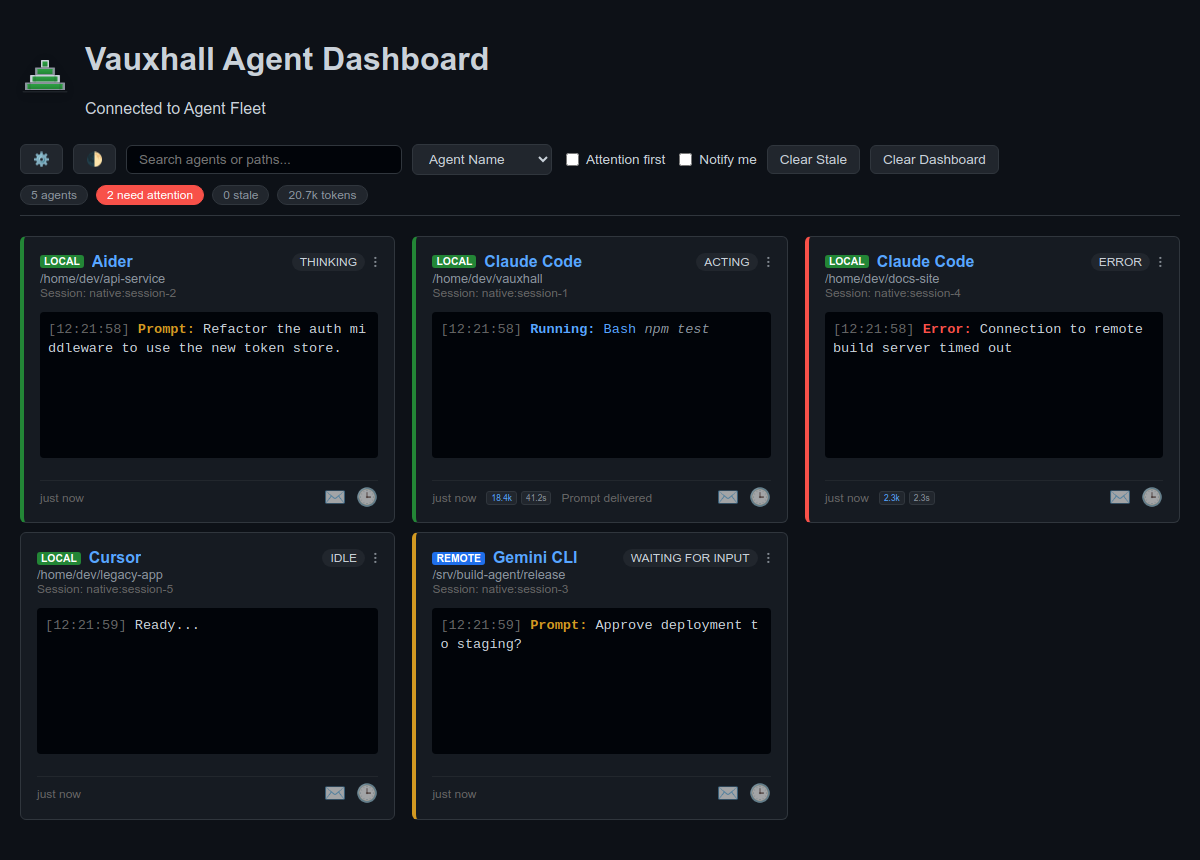
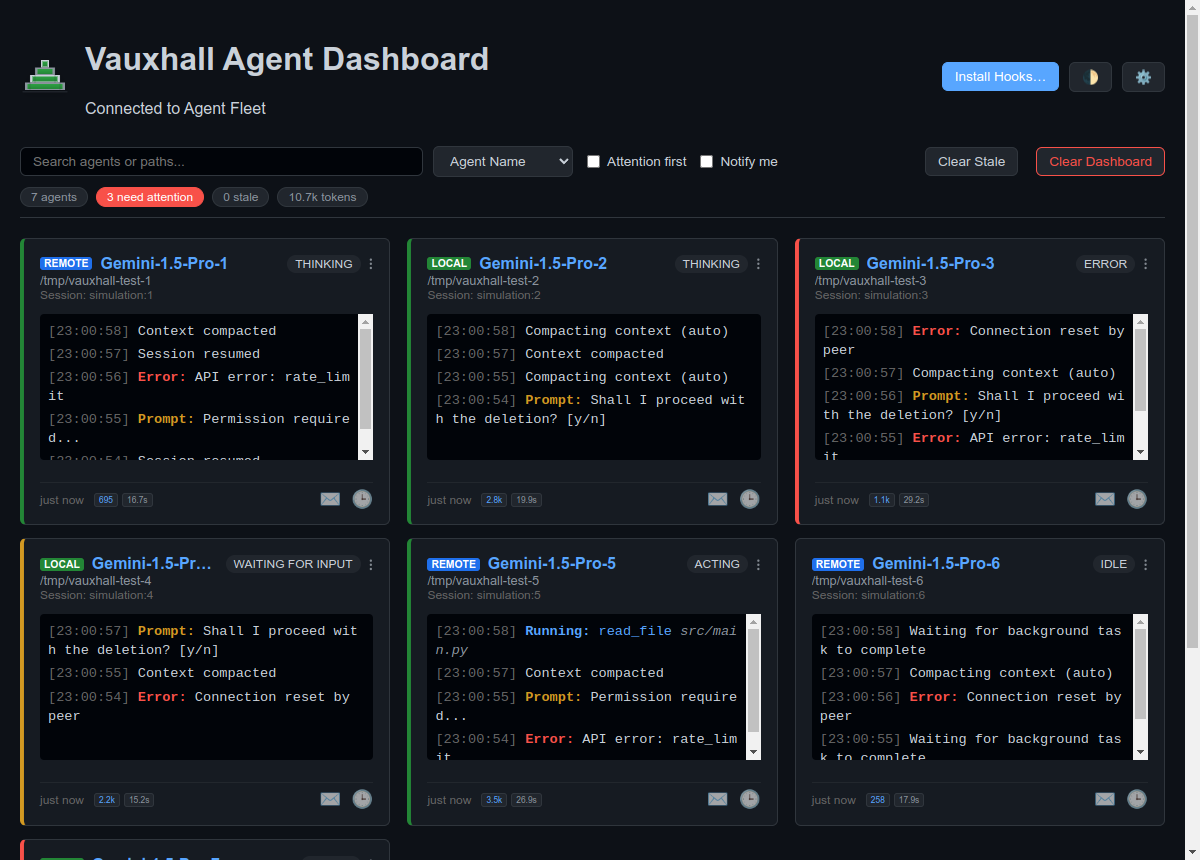
Group the dashboard header's controls by what they act on
The toolbar was one row of ten controls mixing app actions, view controls,
and the destructive Clear Dashboard. Following the GNOME header bar and
Fluent command bar guidance (few controls, grouped, app-level items in a
consistent trailing spot), app actions now trail the title with Install
Hooks… as the primary button, and a view bar holds search, sort, and the
toggles, with the clear actions at its end and Clear Dashboard outlined in
red. Ids, labels, and handlers are unchanged. The screenshot is refreshed
from a run with only simulated agents on a separate broker.

Claude-Session: https://claude.ai/code/session_01KiJKA5vYwWxU6QhW9V3zPQ

diff --git a/vauxhall/dashboard/ui/index.html b/vauxhall/dashboard/ui/index.html
@@ -21,28 +21,31 @@
                     <p id="js-status" role="status" aria-live="polite">Connecting...</p>
                 </div>
             </div>
-            <div class="toolbar">
-                <button id="settings-btn" class="secondary-btn" title="Settings" aria-label="Settings" aria-haspopup="dialog">⚙</button>
-                <button id="install-hooks-btn" class="secondary-btn" title="Install Vauxhall hooks into an agent's workspace" aria-haspopup="dialog">Install Hooks…</button>
+            <div class="toolbar app-actions">
+                <button id="install-hooks-btn" class="secondary-btn primary-btn" title="Install Vauxhall hooks into an agent's workspace" aria-haspopup="dialog">Install Hooks…</button>
                 <button id="theme-toggle" class="secondary-btn" title="Toggle Light/Dark Theme" aria-label="Toggle light and dark theme">🌓</button>
-                <input type="text" id="search-input" placeholder="Search agents or paths..." class="search-bar" title="Filter agents by name or workspace path" aria-label="Filter agents by name or workspace path">
-                <select id="sort-select" class="secondary-btn" title="Sort agent cards" aria-label="Sort agent cards">
-                    <option value="name" selected>Agent Name</option>
-                    <option value="recent">Recently Active</option>
-                    <option value="status">Status</option>
-                    <option value="tokens">Latest Tokens</option>
-                </select>
-                <label class="toolbar-checkbox" title="Rank cards in Error or Waiting state first, regardless of the chosen sort">
-                    <input type="checkbox" id="attention-first-toggle">
-                    Attention first
-                </label>
-                <label class="toolbar-checkbox" title="Show a desktop notification when a card starts needing attention">
-                    <input type="checkbox" id="notify-toggle">
-                    Notify me
-                </label>
-                <button id="clear-stale-btn" class="secondary-btn" title="Remove inactive (stale) agents from the dashboard">Clear Stale</button>
-                <button id="clear-btn" class="secondary-btn" title="Remove all agents from the dashboard">Clear Dashboard</button>
+                <button id="settings-btn" class="secondary-btn" title="Settings" aria-label="Settings" aria-haspopup="dialog">⚙</button>
             </div>
+        </div>
+        <div class="toolbar view-bar">
+            <input type="text" id="search-input" placeholder="Search agents or paths..." class="search-bar" title="Filter agents by name or workspace path" aria-label="Filter agents by name or workspace path">
+            <select id="sort-select" class="secondary-btn" title="Sort agent cards" aria-label="Sort agent cards">
+                <option value="name" selected>Agent Name</option>
+                <option value="recent">Recently Active</option>
+                <option value="status">Status</option>
+                <option value="tokens">Latest Tokens</option>
+            </select>
+            <label class="toolbar-checkbox" title="Rank cards in Error or Waiting state first, regardless of the chosen sort">
+                <input type="checkbox" id="attention-first-toggle">
+                Attention first
+            </label>
+            <label class="toolbar-checkbox" title="Show a desktop notification when a card starts needing attention">
+                <input type="checkbox" id="notify-toggle">
+                Notify me
+            </label>
+            <span class="view-bar-spacer"></span>
+            <button id="clear-stale-btn" class="secondary-btn" title="Remove inactive (stale) agents from the dashboard">Clear Stale</button>
+            <button id="clear-btn" class="secondary-btn danger-btn" title="Remove all agents from the dashboard">Clear Dashboard</button>
         </div>
         <div id="fleet-summary" class="fleet-summary" role="status" aria-live="polite" aria-label="Fleet summary"></div>
     </header>

diff --git a/tests/dashboard/ui/accessibility.test.js b/tests/dashboard/ui/accessibility.test.js
@@ -219,6 +219,18 @@ test('the fleet summary is a polite live region', () => {
     assert.equal(summary.getAttribute('aria-live'), 'polite');
 });
 
+test('app actions trail the title, and view controls precede the clear actions', () => {
+    const document = loadIndexPage();
+    const ids = (selector) => [...document.querySelectorAll(`${selector} [id]`)].map(el => el.id);
+
+    assert.deepEqual(ids('.app-actions'), ['install-hooks-btn', 'theme-toggle', 'settings-btn']);
+    assert.deepEqual(ids('.view-bar'), [
+        'search-input', 'sort-select', 'attention-first-toggle', 'notify-toggle', 'clear-stale-btn', 'clear-btn',
+    ]);
+    assert.ok(document.getElementById('install-hooks-btn').classList.contains('primary-btn'));
+    assert.ok(document.getElementById('clear-btn').classList.contains('danger-btn'));
+});
+
 test('the attention-first and notify toggles are checkboxes named by a wrapping label', () => {
     const document = loadIndexPage();
 

diff --git a/vauxhall/dashboard/ui/style.css b/vauxhall/dashboard/ui/style.css
@@ -211,8 +211,40 @@ header {
 
 .toolbar {
     display: flex;
+    flex-wrap: wrap;
     gap: 10px;
     align-items: center;
+}
+
+/* App-level actions trail the title; the view bar holds what acts on the
+   cards, with the clear actions pushed to its end. */
+.app-actions {
+    margin-left: auto;
+}
+
+.view-bar {
+    margin-top: 12px;
+}
+
+.view-bar .search-bar {
+    flex: 1 1 250px;
+    max-width: 480px;
+}
+
+.view-bar-spacer {
+    flex: 1 1 0;
+}
+
+.danger-btn {
+    color: var(--error-color);
+    border-color: var(--error-color);
+    margin-left: 8px;
+}
+
+.danger-btn:hover {
+    background-color: var(--error-color);
+    border-color: var(--error-color);
+    color: #ffffff;
 }
 
 .toolbar-checkbox {

diff --git a/AGENTS.md b/AGENTS.md
@@ -261,6 +261,13 @@ See [sending-prompts.md](docs/sending-prompts.md) for the user's view.
 
 ## Dashboard Behavior
 
+- **Header**: Controls are grouped by what they act on, following the GNOME
+  header bar and Fluent command bar guidance. App-level actions trail the
+  title (`.app-actions`): **Install Hooks…** as the primary button, then the
+  theme toggle and ⚙ Settings. The view bar below (`.view-bar`) holds search,
+  sort, and the two checkboxes, with **Clear Stale** and the red-outlined
+  **Clear Dashboard** pushed to its end. Both rows wrap on narrow windows.
+  `accessibility.test.js` pins the grouping and order.
 - **Cards**: A card is identified by `agent`, `workspace`, and `session_id`, so
   separate sessions get separate cards. The dashboard keeps up to
   `max_active_agents` cards (100 by default); a new identity at capacity evicts
